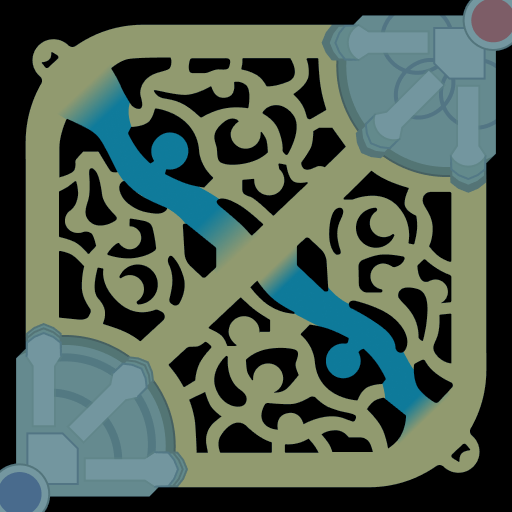
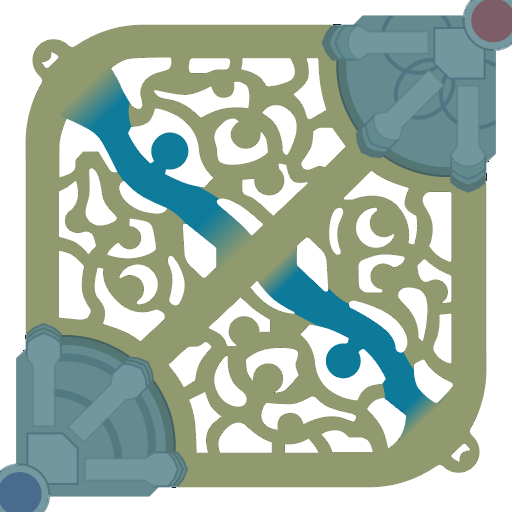
Join games bar to footer, blend map into backdrop, add roles note
- The screen's content takes the spare height, so the Tonight games bar
  sits directly on the footer instead of floating above a gap
- Map picture: black background and jungle walls made transparent (with
  soft edges) so the splash art shows through
- Tonight: note that only main roles are shown, though secondary roles
  are still considered

diff --git a/src/styles.css b/src/styles.css
@@ -92,6 +92,29 @@ h1,
 }
 main {
   flex: 1;
+  display: flex;
+  flex-direction: column;
+}
+/* The screen's content takes up any spare height, so the Tonight games bar
+   sits directly on top of the footer instead of floating above a gap. */
+main > .band {
+  flex: 1 0 auto;
+}
+.rolesnote {
+  display: flex;
+  align-items: center;
+  gap: 8px;
+  margin: -4px 0 12px;
+  font-size: 14px;
+  color: #cfc6b3;
+  text-shadow:
+    0 1px 3px rgba(1, 10, 19, 0.95),
+    0 0 14px rgba(1, 10, 19, 0.9);
+}
+.rolesnote .gl {
+  width: 18px;
+  height: 18px;
+  color: var(--sand);
 }
 h1,
 h2,

diff --git a/src/screens/TonightScreen.tsx b/src/screens/TonightScreen.tsx
@@ -53,6 +53,13 @@ export function TonightScreen(props: Props) {
               </button>
             </div>
           </div>
+          <p className="rolesnote">
+            <svg className="gl" viewBox="0 0 24 24" aria-hidden="true">
+              <circle cx="12" cy="12" r="9" />
+              <path d="M12 11v6M12 7.5v.5" />
+            </svg>
+            Only main roles are shown, but all players are considered for secondary roles as well.
+          </p>
           <ul className="pgrid">
             {players.map((p) => {
               const on = selected.has(p.name);
